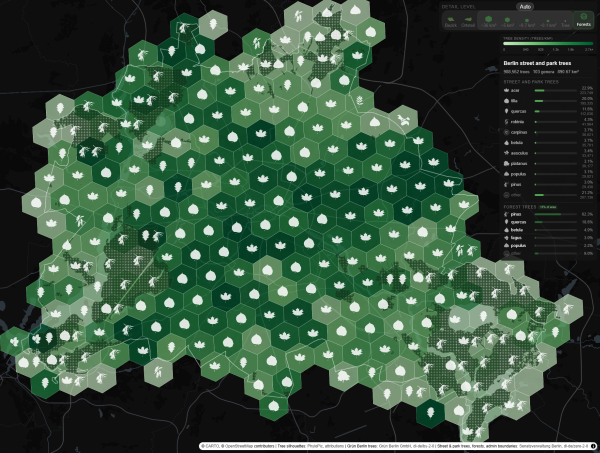
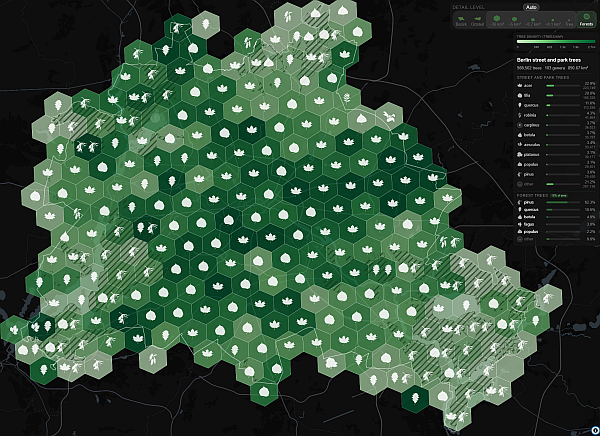
map: forest polygon style update, a few tweaks in the info card

diff --git a/web/js/info.js b/web/js/info.js
@@ -190,7 +190,24 @@ function _barRow(genus, share, count, phylopicIndex, isForest) {
     </div>`;
 }
 
-function renderTreeChart(props, phylopicIndex, maxRows) {
+// Cell summary stats: tree count, density, and area (non-forest area when the
+// cell is mostly forest, since density is computed per non-forest km²).
+function _cellStats(props) {
+  const trees = Number(props.tree_count) || 0;
+  const density = props.tree_density_km2 != null
+    ? `${Number(props.tree_density_km2).toFixed(0)} trees/km²` : null;
+  const fcp = Number(props.forest_cover_pct) || 0;
+  const area = (fcp > 10 && props.non_forest_area_km2 != null)
+    ? `${Number(props.non_forest_area_km2).toFixed(2)} km² non-forest`
+    : (props.berlin_area_km2 ? `${Number(props.berlin_area_km2).toFixed(2)} km²` : null);
+  return [
+    trees ? `${trees.toLocaleString()} ${trees === 1 ? 'tree' : 'trees'}` : null,
+    density,
+    area,
+  ].filter(Boolean);
+}
+
+function renderTreeChart(props, phylopicIndex, maxRows, controlsHtml = '') {
   const rows = [];
   for (let i = 1; i <= maxRows; i++) {
     const genus = props[`tree_genus_${i}`];
@@ -227,7 +244,10 @@ function renderTreeChart(props, phylopicIndex, maxRows) {
         <div class="bar-pct">${Number(otherShare).toFixed(1)}%<span class="bar-count">${otherCount.toLocaleString()}</span></div>
        </div>` : '';
 
-  return `<div class="card-section"><div class="card-section-title">Street and park trees</div>${rows.join('')}${otherRow}</div>`;
+  const stats = _cellStats(props);
+  const statsRow = `<div class="card-stats">${stats.map(s => `<span>${s}</span>`).join('')}</div>`;
+  const title = `<div class="card-section-title"><span>Street and park trees</span><span class="section-controls">${controlsHtml}</span></div>`;
+  return `<div class="card-section">${title}${statsRow}${rows.join('')}${otherRow}</div>`;
 }
 
 function renderForestChart(props, phylopicIndex) {
@@ -294,20 +314,6 @@ function renderDatasetCard(summary, phylopicIndex) {
 }
 
 function renderHexCard(props, layerType, phylopicIndex, expanded, latched) {
-  const trees = Number(props.tree_count) || 0;
-  const density = props.tree_density_km2 != null
-    ? `${Number(props.tree_density_km2).toFixed(0)} trees/km²` : '';
-  const stats = [
-    trees ? `${trees.toLocaleString()} ${trees === 1 ? 'tree' : 'trees'}` : null,
-    density || null,
-    (() => {
-      const fcp = Number(props.forest_cover_pct) || 0;
-      if (fcp > 10 && props.non_forest_area_km2 != null)
-        return `${Number(props.non_forest_area_km2).toFixed(2)} km² non-forest`;
-      return props.berlin_area_km2 ? `${Number(props.berlin_area_km2).toFixed(2)} km²` : null;
-    })(),
-  ].filter(Boolean);
-
   // Count how many genera slots are populated (1–10)
   let totalGenera = 0;
   for (let i = 1; i <= 10; i++) {
@@ -322,9 +328,10 @@ function renderHexCard(props, layerType, phylopicIndex, expanded, latched) {
     ? `<button class="expand-btn">${expanded ? 'less ↑' : 'more ↓'}</button>`
     : '';
 
-  const header = props.area_name
-    ? `<div class="card-header"><div class="card-title">${props.area_name}</div>${expandBtn}</div>`
-    : expandBtn ? `<div class="card-header card-header-end">${expandBtn}</div>` : '';
+  // Area name (admin cards) stays as the card title; the expand/close controls
+  // ride in the "Street and park trees" section title (rendered by
+  // renderTreeChart, with the close button added by showCard).
+  const header = props.area_name ? `<div class="card-title">${props.area_name}</div>` : '';
 
   // maxRows: ≤5 genera → show all; short → 4+other; expanded → all or 9+other if >10
   const maxRows = !hasMore ? totalGenera
@@ -332,8 +339,7 @@ function renderHexCard(props, layerType, phylopicIndex, expanded, latched) {
     : moreThan10 ? 9 : totalGenera;
 
   return `${header}
-    <div class="card-stats">${stats.map(s => `<span>${s}</span>`).join('')}</div>
-    ${renderTreeChart(props, phylopicIndex, maxRows)}
+    ${renderTreeChart(props, phylopicIndex, maxRows, expandBtn)}
     ${_forestEnabled ? renderForestChart(props, phylopicIndex) : ''}`;
 }
 
@@ -396,15 +402,13 @@ function showCard(html, { showClose = false } = {}) {
     closeBtn.setAttribute('aria-label', 'Close');
     closeBtn.textContent = '✕';
 
-    const expandBtn = el.querySelector('.expand-btn');
-    if (expandBtn) {
-      // Keep expand + close always adjacent regardless of title width
-      const controls = document.createElement('div');
-      controls.className = 'card-controls';
-      expandBtn.parentNode.insertBefore(controls, expandBtn);
-      controls.appendChild(expandBtn);
+    // Prefer the section-title controls slot (next to the expand button) so the
+    // close button sits beside "Street and park trees".
+    const controls = el.querySelector('.section-controls');
+    if (controls) {
       controls.appendChild(closeBtn);
     } else {
+      // Cards without a tree section (e.g. a single tree point): top-right.
       const header = el.querySelector('.card-header');
       if (header) {
         header.appendChild(closeBtn);

diff --git a/web/styles.css b/web/styles.css
@@ -28,12 +28,11 @@ body { font-family: sans-serif; }
 }
 #right-panel::-webkit-scrollbar { display: none; }
 
-/* Info card and colorbar are narrower than the detail control */
-#ctrl-colorbar,
-#ctrl-info { width: 300px; }
-
-/* Wrapper is transparent on desktop; on mobile it becomes a sized column */
-#card-stack { display: contents; }
+/* Info card sizes to its content (fits the section-title + controls on one line,
+   and the stats line on another); colorbar matches its width. */
+#card-stack { display: flex; flex-direction: column; align-items: flex-end; gap: 6px; }
+#ctrl-info { width: max-content; min-width: 280px; max-width: min(420px, calc(100vw - 20px)); }
+#ctrl-colorbar { width: 100%; }
 
 /* ---- Detail level control ---- */
 #ctrl-detail {
@@ -106,7 +105,7 @@ body { font-family: sans-serif; }
   border: 1px solid rgba(255, 255, 255, 0.1);
   cursor: pointer;
   color: #555;
-  padding: 6px 9px;
+  padding: 6px 9px 4px;   /* seg-btn has no border; drop 1px more so "Forests" baseline aligns */
   border-radius: 8px;
   transition: color 0.15s, background 0.15s, border-color 0.15s;
   flex-shrink: 0;
@@ -249,6 +248,15 @@ body { font-family: sans-serif; }
   align-items: center;
   gap: 6px;
 }
+/* Expand + close buttons, pushed to the right edge of the section title. */
+.section-controls {
+  margin-left: auto;
+  display: flex;
+  align-items: center;
+  gap: 6px;
+  flex-shrink: 0;
+}
+.section-controls:empty { display: none; }
 
 .fcp-badge {
   font-size: 9px;

diff --git a/web/index.html b/web/index.html
@@ -58,17 +58,14 @@
               </clipPath></defs>
               <path d="M7,1 L13,1 L18,4 L20,9 L19,14 L14,17 L8,17 L4,14 L2,9 L3,4Z"
                     fill="none" stroke="currentColor" stroke-width="1.3"/>
-              <g clip-path="url(#fp-clip)" fill="currentColor">
-                <circle cx="7"  cy="5"  r="1.1"/>
-                <circle cx="11" cy="5"  r="1.1"/>
-                <circle cx="15" cy="5"  r="1.1"/>
-                <circle cx="5"  cy="9"  r="1.1"/>
-                <circle cx="9"  cy="9"  r="1.1"/>
-                <circle cx="13" cy="9"  r="1.1"/>
-                <circle cx="17" cy="9"  r="1.1"/>
-                <circle cx="7"  cy="13" r="1.1"/>
-                <circle cx="11" cy="13" r="1.1"/>
-                <circle cx="15" cy="13" r="1.1"/>
+              <g clip-path="url(#fp-clip)" stroke="currentColor" stroke-width="1.1" opacity="0.85">
+                <line x1="-13" y1="18" x2="7"  y2="-2"/>
+                <line x1="-9"  y1="18" x2="11" y2="-2"/>
+                <line x1="-5"  y1="18" x2="15" y2="-2"/>
+                <line x1="-1"  y1="18" x2="19" y2="-2"/>
+                <line x1="3"   y1="18" x2="23" y2="-2"/>
+                <line x1="7"   y1="18" x2="27" y2="-2"/>
+                <line x1="11"  y1="18" x2="31" y2="-2"/>
               </g>
             </svg>
             <span class="forest-toggle-label">Forests</span>

diff --git a/web/js/layers.js b/web/js/layers.js
@@ -190,9 +190,9 @@ export function addMapLayers(map, tilesUrl) {
     });
   }
 
-  // 2× supersampled (pixelRatio 2) → 5 CSS-px spacing, 2.5-px radius, smooth round dots
-  map.addImage('forest-dots', createDotPattern('#13321a', 10, 5, 10), { pixelRatio: 2 });
-  const dotPattern = 'forest-dots';
+  // Forest fill: deep-green diagonal hatch pattern.
+  map.addImage('forest-hatch', createHatchPattern('#13321a', 11, 3));
+  const forestPattern = 'forest-hatch';
 
   // Pass 2: hex outlines + centroids
   for (const resolution of HEX_RESOLUTIONS) {
@@ -356,7 +356,7 @@ export function addMapLayers(map, tilesUrl) {
     'source-layer': 'forests_union',
     layout: { visibility: 'visible' },
     paint: {
-      'fill-pattern': dotPattern,
+      'fill-pattern': forestPattern,
       'fill-opacity': ['interpolate', ['linear'], ['zoom'], 14, 0.7, 15, 0],
     },
   });
@@ -377,7 +377,7 @@ export function addMapLayers(map, tilesUrl) {
     'source-layer': 'forests',
     layout: { visibility: 'none' },
     paint: {
-      'fill-pattern': dotPattern,
+      'fill-pattern': forestPattern,
       'fill-opacity': ['interpolate', ['linear'], ['zoom'], 14, 0, 15, 0.7],
     },
   });

diff --git a/README.md b/README.md
@@ -2,7 +2,7 @@
 
 # Berlin Trees H3
 
-Another take on visualizing Berlin's street and park trees. Trees are aggregated onto an H3 hex grid you can switch across detail levels, with Berlin's boroughs, neighbourhoods, and forests available as separate layers. Hover or tap any cell for its tree count, density, and genus breakdown. It's all packed into a single PMTile file served straight from github pages.
+Another take on visualizing Berlin's street and park trees. Trees are aggregated onto an H3 hex grid you can switch across detail levels, with Berlin's boroughs, neighbourhoods, and forests available as separate layers. Hover or tap any cell for its tree count, density, and genus breakdown. It's all packed into a single PMTile file serving required data via partial requests.
 
 <a href="https://github.com/Ossssip/Berlin-trees-h3/blob/main/web/map.png">
   <img src="https://github.com/Ossssip/Berlin-trees-h3/blob/main/web/map_thumb.png?raw=true" width="600" alt="Berlin trees map preview">
@@ -57,9 +57,8 @@ re-fetched.
 
 ## Running locally
 
-Requires **Python 3.12**, and — for the tile-build step —
-[tippecanoe](https://github.com/felt/tippecanoe) (the felt fork) and the
-[`pmtiles`](https://github.com/protomaps/go-pmtiles) CLI on your `PATH`.
+Requires [tippecanoe](https://github.com/felt/tippecanoe) and the
+[`pmtiles`](https://github.com/protomaps/go-pmtiles) CLI for the tile-build step.
 
 ```bash
 # 1. Create the environment and install dependencies